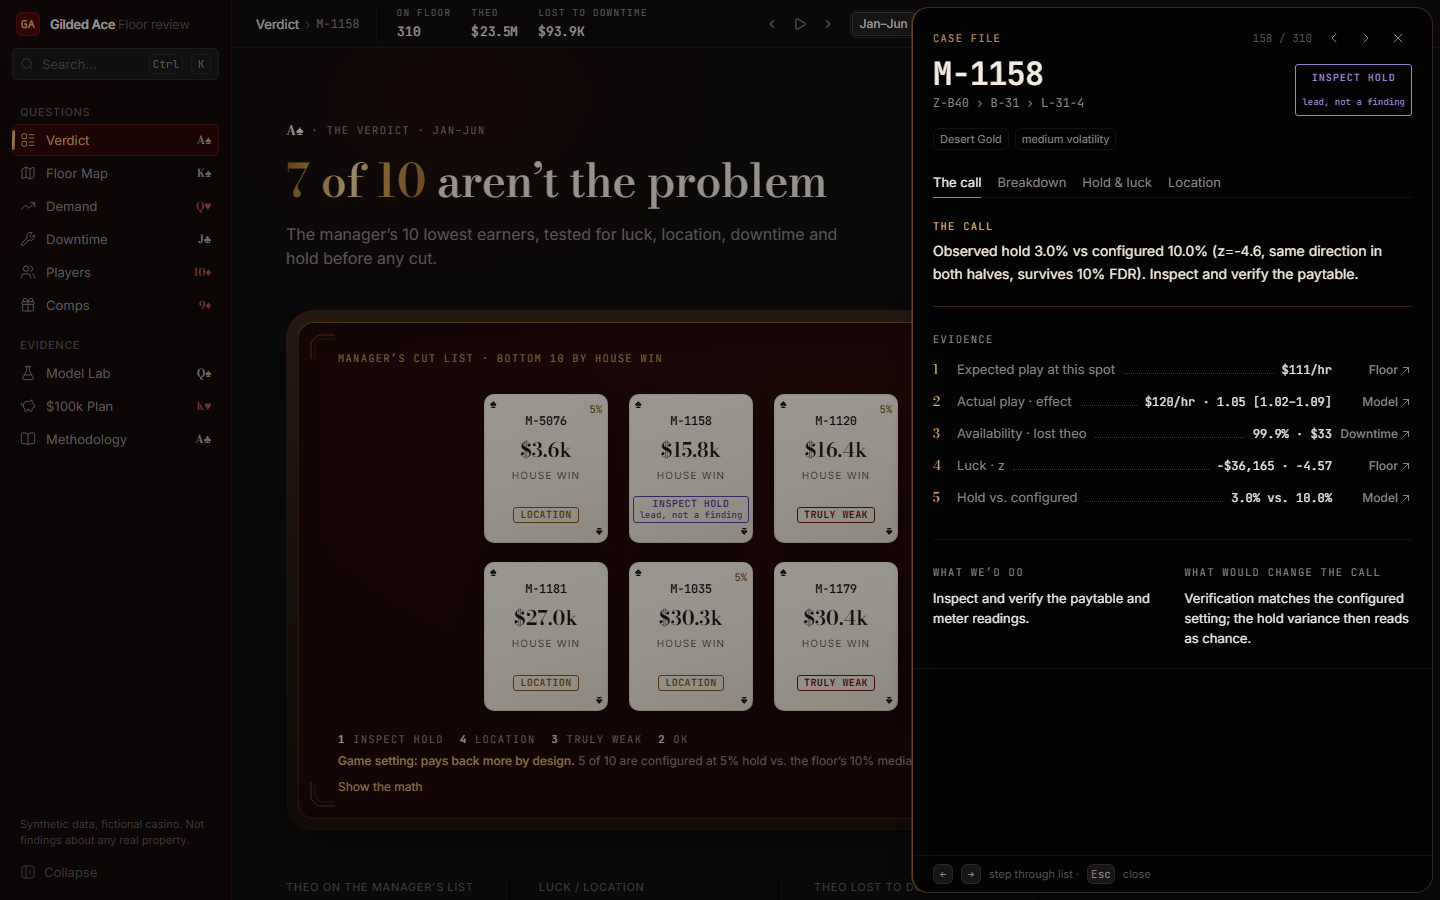
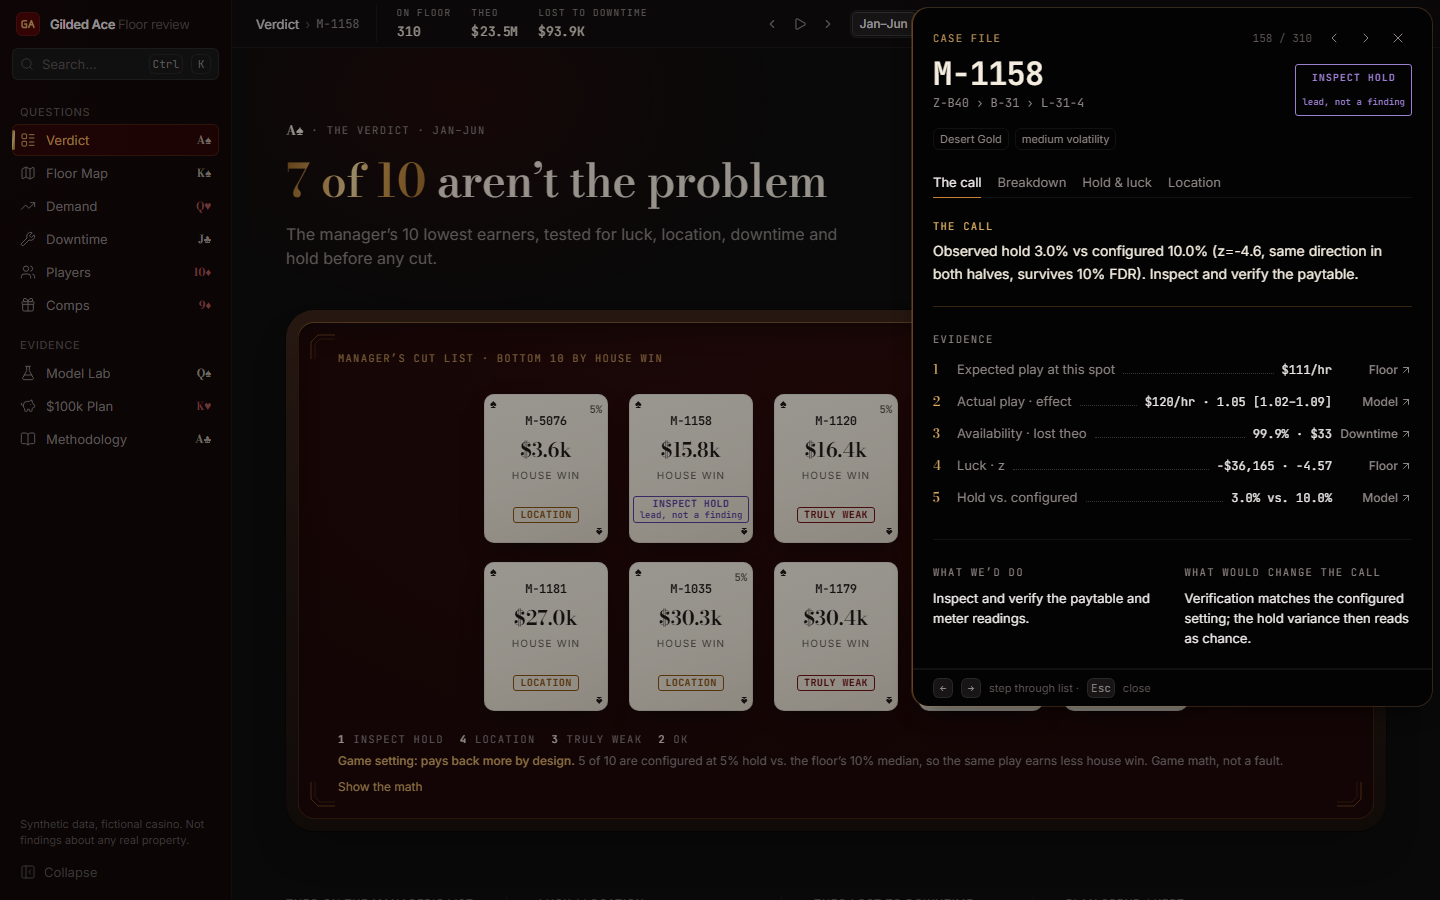
fix(ui): M8.5 critic #4 — drawer fits content, floor map in fold, muted hold tags

diff --git a/web/src/screens/FloorMap.tsx b/web/src/screens/FloorMap.tsx
@@ -172,12 +172,12 @@ export default function FloorMap() {
       <section
         id="map"
         aria-label="Floor map"
-        className="felt relative mx-6 mt-10 overflow-hidden rounded-xl ring-1 ring-inset ring-gold/20 md:mx-10"
+        className="felt relative mx-6 mt-6 overflow-hidden rounded-xl ring-1 ring-inset ring-gold/20 md:mx-10"
       >
         <svg
           ref={svg}
           viewBox={`0 0 ${W} ${H}`}
-          className="relative block h-[min(60vh,560px)] w-full cursor-grab active:cursor-grabbing"
+          className="relative block h-[min(56vh,540px)] w-full cursor-grab active:cursor-grabbing"
           role="img"
           aria-label="Casino floor with machines colored by verdict"
           onClick={() => setTip(null)}

diff --git a/web/src/components/theme/RevealTable.tsx b/web/src/components/theme/RevealTable.tsx
@@ -109,7 +109,7 @@ export function RevealTable({
                     <span className="serif mt-2 text-[20px] font-semibold leading-none">{fmt.usdK(r.house_win_usd)}</span>
                     <span className="mt-1 text-[10px] uppercase tracking-[0.12em] text-ink/70">house win</span>
                     {lowHold(r) && (
-                      <span className="absolute right-1.5 top-1 font-mono text-[10.5px] font-semibold text-[#7a5a1e]" title="Game setting">
+                      <span className="absolute right-1.5 top-1 font-mono text-[10.5px] font-semibold text-[#5c5350]" title="Game setting">
                         {fmt.pct(r.hold_expected, 0)}
                       </span>
                     )}

diff --git a/web/src/components/MachineDrawer.tsx b/web/src/components/MachineDrawer.tsx
@@ -50,7 +50,7 @@ export function MachineDrawer() {
         <Drawer.Content
           data-testid="machine-drawer"
           aria-describedby={undefined}
-          className="fixed bottom-2 right-2 top-2 z-50 flex w-[520px] max-w-[calc(100vw-16px)] flex-col overflow-hidden rounded-xl border-l border-gold/50 bg-lacquer shadow-float outline-none ring-1 ring-gold/15"
+          className="fixed right-2 top-2 z-50 flex max-h-[calc(100vh-16px)] w-[520px] max-w-[calc(100vw-16px)] flex-col overflow-hidden rounded-xl border-l border-gold/50 bg-lacquer shadow-float outline-none ring-1 ring-gold/15"
         >
           {row && (
             <Body

diff --git a/web/src/screens/ModelLab.tsx b/web/src/screens/ModelLab.tsx
@@ -156,7 +156,7 @@ export default function ModelLab() {
             ? `Spot + game model cuts error ${fmt.pct(m1.improvement_pct, 0)}; weak machines stay weak`
             : `A weekday + event forecast cuts daily coin-in error ${fmt.pct(m.improvement_pct, 0)} vs. a flat average`
         }
-        sub="Fit on Jan–Apr, scored on unseen May–Jun days, each against a simple baseline."
+        sub="Trained Jan–Mar, tuned on April, scored on unseen May–Jun days against a simple baseline."
       >
         <KpiStrip testId="model-kpis">
           {m1 && (

diff --git a/web/src/screens/BudgetPlan.tsx b/web/src/screens/BudgetPlan.tsx
@@ -90,7 +90,7 @@ export default function BudgetPlan() {
         />
         {data.errors.length > 0 && <p className="mt-2 text-xs text-verdict-downtime">{data.errors.join("; ")}</p>}
       </section>
-      <div className="mx-6 mt-10 md:mx-10">
+      <div className="mx-6 mt-14 md:mx-10">
         <KpiStrip testId="plan-kpis">
           <Kpi
             label="Spend"

diff --git a/web/src/screens/Verdict.tsx b/web/src/screens/Verdict.tsx
@@ -145,7 +145,7 @@ export default function Verdict() {
             </div>
           }
         />
-        <div className="mt-12">
+        <div className="mt-16">
           <KpiStrip testId="verdict-kpis">
             <Kpi
               testId="kpi-theo"

diff --git a/docs/DESIGN_LOG.md b/docs/DESIGN_LOG.md
@@ -67,3 +67,7 @@ Not building: boot screens, logs, terminal styling, LED dots, pixel/neon/CRT, ma
 - Inspect caveat 8 → 9px semibold.
 - Critic #3 (before these fixes): Verdict 9/9/8/8/9/8 · Case file 8/6/8/7/7/6 · Floor 7/8/7/6/8/6 ·
   Plan 8/8/7/7/8/6 · Model 7/6/7/7/5/7 · stubs 8/9/8/8/6/8.
+- Critic #4 (final shots): Verdict 9/9/8/8/9/8 · Case file 9/8/8/7/7/6 · Floor 7/8/7/6/8/5 · Plan 8/9/8/7/9/7 ·
+  Model 8/7/7/7/6/8 · stubs 7/8/7/7/6/7 · Comps/Method 7/8/7/7/5/7. Applied after: drawer shrinks to content,
+  5% tags muted to grey (gold only in headline), Model sub matches the Train/Validate bands, Floor map fits the fold
+  with legend, KPI strips pushed fully below the fold (no orphan labels).
